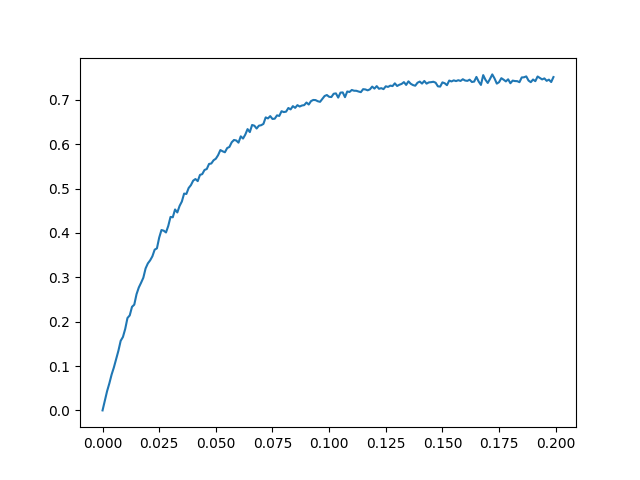
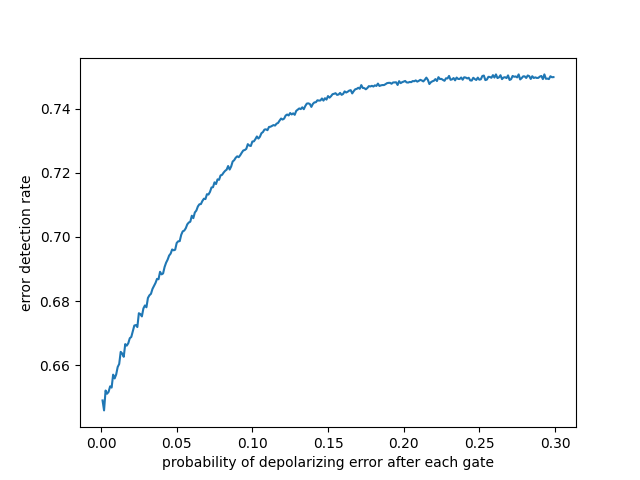
.

diff --git a/422.py b/422.py
@@ -4,7 +4,7 @@ import numpy as np
 from matplotlib import pyplot as plt 
 
 
-def vanilla422(p_depol = 0):
+def vanilla422():
     # Encoding 
     circuit = Circuit('''
     H 3
@@ -28,38 +28,44 @@ def vanilla422(p_depol = 0):
         M 5
     ''')
 
-    if p_depol != 0:
-        noisy_circuit = stim.Circuit()
-        for operation in circuit:
-            operation = str(operation).split(' ')
-            gate = operation[0]
-            target_qubits = np.array(operation[1:]).astype(int)
-            # Apply original gate
-            noisy_circuit.append_operation(gate, target_qubits)
+    return circuit
 
-            # Apply depolarizing noise after each gate
-            for target in target_qubits:
-                noisy_circuit.append_operation("DEPOLARIZE1", [target], p_depol)
+def noisyvanilla422(circuit, p_depol = 0):
+    noisy_circuit = stim.Circuit()
+    for operation in circuit:
+        operation = str(operation).split(' ')
+        gate = operation[0]
+        target_qubits = np.array(operation[1:]).astype(int)
+        # Apply original gate
+        noisy_circuit.append_operation(gate, target_qubits)
 
-    else:
-        noisy_circuit = circuit
-
+        # Apply depolarizing noise after each gate (33 in total)
+        for target in target_qubits:
+            noisy_circuit.append_operation("DEPOLARIZE1", [target], p_depol)
     return noisy_circuit
 
-# print(circuit.diagram())
 
-ps_phy = array = np.arange(0, .2, 0.001)
-shots = 10
+def main():
+    ps_phy = array = np.arange(0, .3, .001)
+    shots = 1000000
+    rates = []
 
-rates = []
-for p_phy in ps_phy:
-    circuit = vanilla422(p_phy)
-    sampler = circuit.compile_sampler()
-    results = sampler.sample(shots=shots)  
-    rate = sum(1 for row in results if any(row))/shots
-    rates.append(rate)
+    # iterate over physical error rates
+    circuit = vanilla422()
+    for p_phy in ps_phy:
+        noisy_circuit = noisyvanilla422(circuit, p_phy)
+        sampler = noisy_circuit.compile_sampler()
+        results = sampler.sample(shots=shots)  
 
-plt.plot(ps_phy,rates)
-# plt.show()
-# plt.savefig('singlequbitdepolarizing')
+        # for each p_phy divide number of detection events by number of circuit iterations which had an error 
+        rate = sum(1 for row in results if any(row))/(shots*(1-(1-p_phy)**33 ))
+        rates.append(rate)
 
+    plt.xlabel("probability of depolarizing error after each gate")
+    plt.ylabel("error detection rate")
+    plt.plot(ps_phy,rates)
+    # plt.show()
+    plt.savefig('singlequbitdepolarizing')
+
+if __name__ == "__main__":
+    main()
